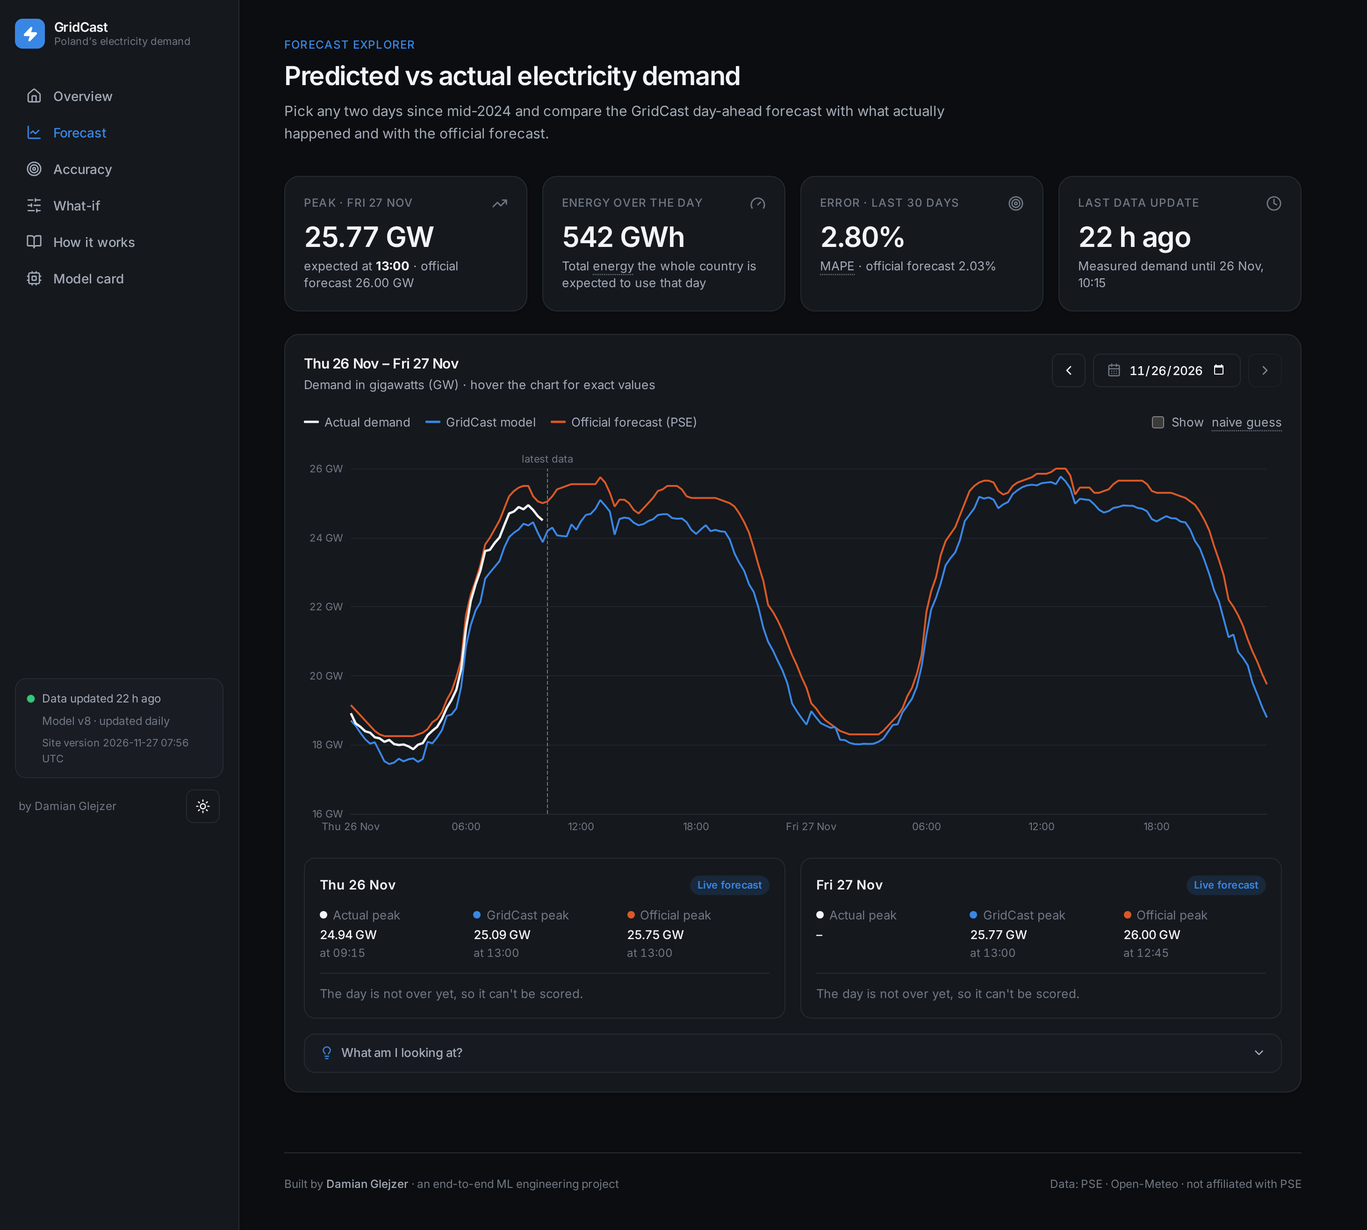
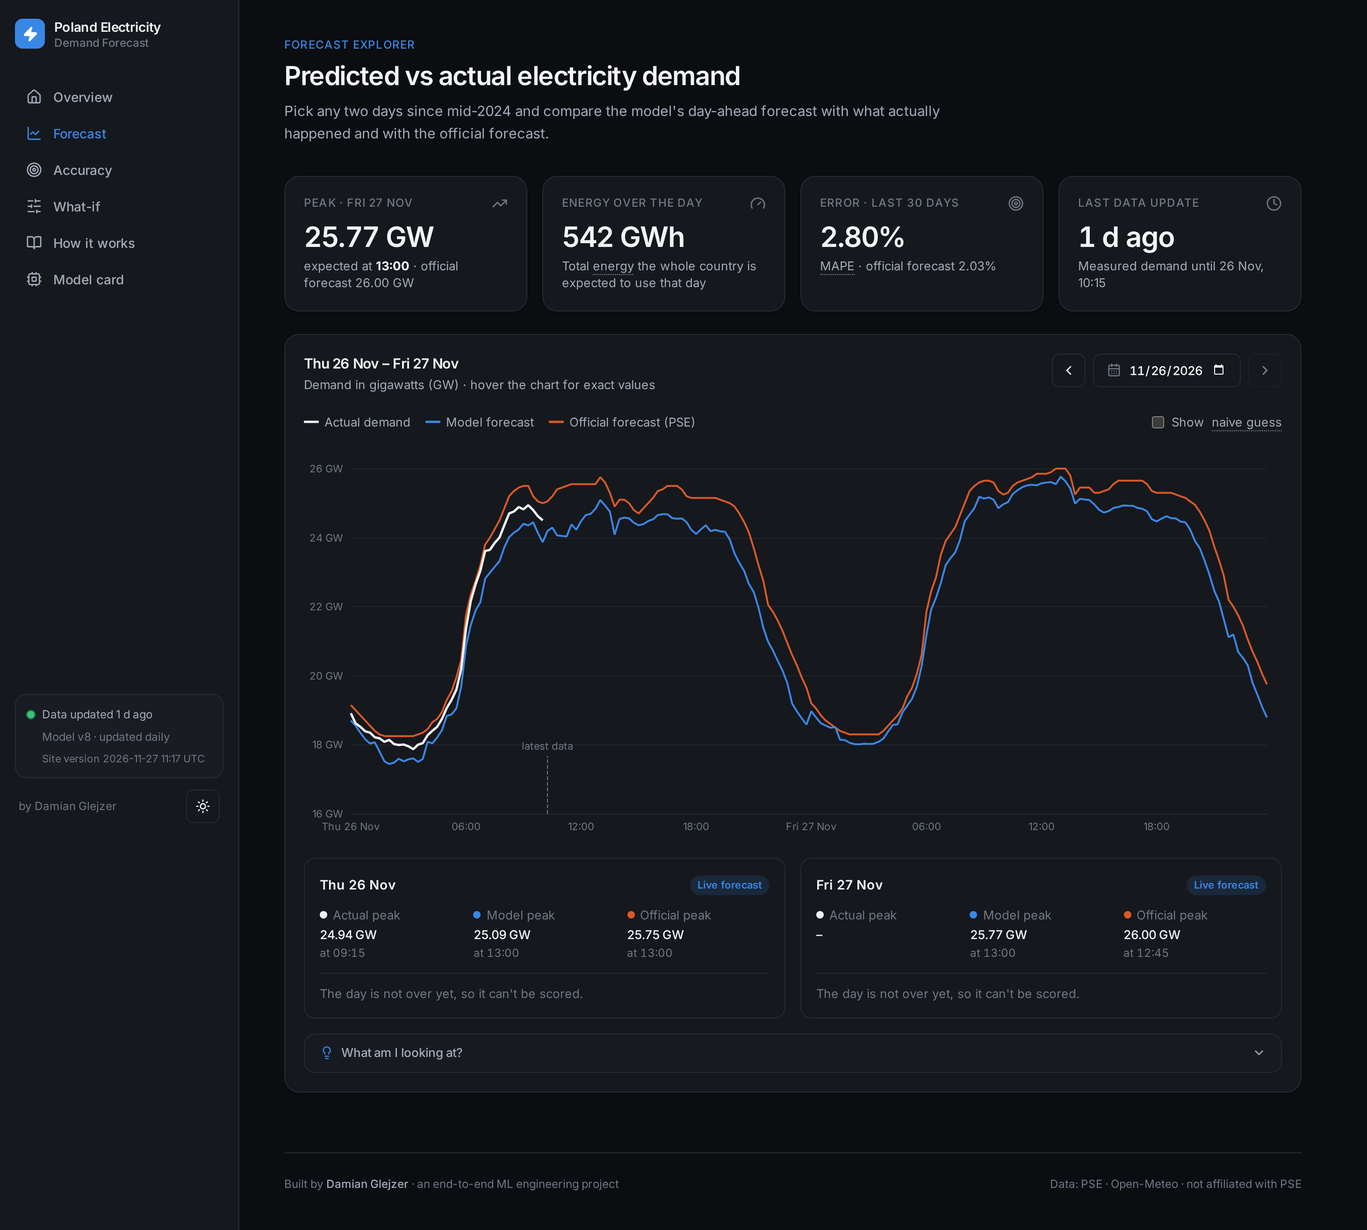
chore: rename the project to Poland Electricity Demand Forecast
A descriptive name tells recruiters what the project does at a glance.
- website title, sidebar logo and README use the new name; chart legends
  say "Model forecast" next to "Official forecast (PSE)"
- repository, Render service and Vercel address: poland-electricity-forecast
  (API service: poland-electricity-api)
- database users renamed to forecast_api / forecast_writer

diff --git a/frontend/src/pages/Accuracy.tsx b/frontend/src/pages/Accuracy.tsx
@@ -23,7 +23,7 @@ import { dayLabel, num, pct } from "../lib/format";
 import { type ChartColors, useChartColors } from "../lib/theme";
 
 const SOURCES: { key: SourceKey; label: string; dashed?: boolean }[] = [
-  { key: "model", label: "GridCast model" },
+  { key: "model", label: "Model forecast" },
   { key: "pse", label: "Official forecast (PSE)" },
   { key: "baseline", label: "Naive guess (last week)", dashed: true },
 ];
@@ -339,7 +339,7 @@ export default function Accuracy() {
           subtitle={`${dayLabel(b.start, false)} – ${dayLabel(b.end, false)} · ${b.n_days} days · every 15 minutes`}
           className="border-accent/40 bg-gradient-to-br from-accent/[0.08] to-transparent lg:col-span-1"
         >
-          <div className="text-[13px] text-ink-2">On average the GridCast forecast misses by</div>
+          <div className="text-[13px] text-ink-2">On average the model's forecast misses by</div>
           <div className="tnum mt-1 text-[44px] font-semibold leading-none tracking-tight">
             {pct(b.summary.model.mape)}
           </div>
@@ -396,8 +396,8 @@ export default function Accuracy() {
             <p>
               Each point is one day. Spikes usually come from unusual days, such as public holidays, sudden
               weather changes or days with a lot of solar power, which are hard for every forecast. On days
-              where the blue line is below the orange one, the GridCast model was closer to reality than the
-              official forecast.
+              where the blue line is below the orange one, the model was closer to reality than the official
+              forecast.
             </p>
           </Explainer>
         </Card>

diff --git a/frontend/src/pages/Forecast.tsx b/frontend/src/pages/Forecast.tsx
@@ -109,7 +109,7 @@ function DayStats({ s, day }: { s: Series; day: DayInfo }) {
   };
   const rows: [string, "actual" | "model" | "pse", string][] = [
     ["Actual", "actual", "bg-ink"],
-    ["GridCast", "model", "bg-series-model"],
+    ["Model", "model", "bg-series-model"],
     ["Official", "pse", "bg-series-pse"],
   ];
   const kind = day.model_kind ? KIND_LABEL[day.model_kind] : null;
@@ -146,7 +146,7 @@ function DayStats({ s, day }: { s: Series; day: DayInfo }) {
       </dl>
       {complete ? (
         <div className="mt-3 border-t border-line pt-3 text-[13px] text-ink-2">
-          Average miss: GridCast <b className="tnum text-ink">{pct(mape("model"))}</b> · official{" "}
+          Average miss: model <b className="tnum text-ink">{pct(mape("model"))}</b> · official{" "}
           <b className="tnum text-ink">{pct(mape("pse"))}</b>
           {winner === "model" && <span className="ml-2 text-good">✓ closer</span>}
         </div>
@@ -183,7 +183,7 @@ export default function Forecast() {
       <PageHeader
         eyebrow="Forecast explorer"
         title="Predicted vs actual electricity demand"
-        description="Pick any two days since mid-2024 and compare the GridCast day-ahead forecast with what actually happened and with the official forecast."
+        description="Pick any two days since mid-2024 and compare the model's day-ahead forecast with what actually happened and with the official forecast."
       />
       {kpis.data ? (
         <KpiRow k={kpis.data} />

diff --git a/frontend/src/pages/Overview.tsx b/frontend/src/pages/Overview.tsx
@@ -160,7 +160,7 @@ export default function Overview() {
             </li>
           </ul>
           <p className="mt-4 text-[15px] leading-relaxed text-ink-2">
-            <b className="text-ink">{SITE.name}</b> is an end-to-end machine-learning system that makes the
+            This project is an <b className="text-ink">end-to-end machine-learning system</b> that makes the
             same forecast automatically every day
             {beatsPse ? (
               <>
@@ -226,7 +226,7 @@ export default function Overview() {
               <p>
                 The <b className="text-ink">black line</b> is how much electricity the whole of Poland
                 actually used, in gigawatts. It stops at the latest measurement. The{" "}
-                <b className="text-ink">blue line</b> is the GridCast model's prediction and the{" "}
+                <b className="text-ink">blue line</b> is the model's prediction and the{" "}
                 <b className="text-ink">orange line</b> is the official forecast by PSE. Both were made the
                 day before.
               </p>

diff --git a/frontend/index.html b/frontend/index.html
@@ -4,12 +4,12 @@
     <meta charset="UTF-8" />
     <meta name="viewport" content="width=device-width, initial-scale=1.0" />
     <link rel="icon" type="image/svg+xml" href="/favicon.svg" />
-    <title>GridCast · Forecasting Poland's electricity demand</title>
+    <title>Poland Electricity Demand Forecast</title>
     <meta
       name="description"
       content="An end-to-end machine learning system that forecasts Poland's electricity demand for the next day, every 15 minutes, and compares itself with the grid operator's official forecast."
     />
-    <meta property="og:title" content="GridCast · Forecasting Poland's electricity demand" />
+    <meta property="og:title" content="Poland Electricity Demand Forecast" />
     <meta
       property="og:description"
       content="Day-ahead electricity demand forecasts with LightGBM, MLflow, FastAPI and React, benchmarked against the official forecast."

diff --git a/frontend/src/components/DemandChart.tsx b/frontend/src/components/DemandChart.tsx
@@ -20,7 +20,7 @@ export function useNarrow(breakpoint = 640) {
 
 export const SERIES_LABELS = {
   actual: "Actual demand",
-  model: "GridCast model",
+  model: "Model forecast",
   pse: "Official forecast (PSE)",
   baseline: "Naive guess (last week)",
 } as const;
@@ -158,7 +158,7 @@ export function DemandChart({
   }, [series, actualsUntil]);
   return (
     <Chart
-      ariaLabel="Line chart of actual electricity demand, the GridCast forecast and the official forecast"
+      ariaLabel="Line chart of actual electricity demand, the model's forecast and the official forecast"
       option={demandOption(series, c, nowIdx, narrow, showBaseline)}
       height={height}
     />

diff --git a/frontend/src/components/Layout.tsx b/frontend/src/components/Layout.tsx
@@ -42,8 +42,8 @@ function Brand() {
         <Zap size={17} fill="currentColor" />
       </div>
       <div className="leading-tight">
-        <div className="font-semibold tracking-tight">{SITE.name}</div>
-        <div className="text-[11px] text-muted">Poland's electricity demand</div>
+        <div className="font-semibold tracking-tight">{SITE.shortName}</div>
+        <div className="text-[12px] font-medium text-muted">{SITE.tagline}</div>
       </div>
     </Link>
   );

diff --git a/frontend/src/config.ts b/frontend/src/config.ts
@@ -1,6 +1,9 @@
 /** Site-wide settings. Override with VITE_* variables at build time (e.g. in Vercel). */
 export const SITE = {
-  name: "GridCast",
+  name: "Poland Electricity Demand Forecast",
+  // Two short lines for the sidebar logo.
+  shortName: "Poland Electricity",
+  tagline: "Demand Forecast",
   author: import.meta.env.VITE_AUTHOR_NAME || "Damian Glejzer",
   githubUrl: import.meta.env.VITE_GITHUB_URL || "",
   linkedinUrl: import.meta.env.VITE_LINKEDIN_URL || "",

diff --git a/docs/DEPLOY.md b/docs/DEPLOY.md
@@ -1,4 +1,4 @@
-# Deploying GridCast (free tiers)
+# Deploying the Poland Electricity Demand Forecast (free tiers)
 
 This guide puts the project online with four free services:
 
@@ -26,17 +26,17 @@ Allow about 30–45 minutes. Do the steps in order: each one needs a value from 
 
 ## 1. Push the code to GitHub
 
-1. On GitHub, create a new **empty, public** repository (no README or license; for example `gridcast`).
+1. On GitHub, create a new **empty, public** repository (no README or license; for example `poland-electricity-forecast`).
 2. In the project folder:
    ```bash
-   git remote add origin https://github.com/YOUR-USERNAME/gridcast.git
+   git remote add origin https://github.com/YOUR-USERNAME/poland-electricity-forecast.git
    git push -u origin main
    ```
 3. In `README.md`, replace `YOUR-USERNAME` / `YOUR-APP` later, once you know the URLs.
 
 ## 2. Create the database (Neon)
 
-1. Neon console → **New project**. Name it `gridcast`, choose region **AWS Europe Central (Frankfurt)** (close to Render's Frankfurt region) and Postgres 16 or newer.
+1. Neon console → **New project**. Name it `poland-electricity-forecast`, choose region **AWS Europe Central (Frankfurt)** (close to Render's Frankfurt region) and Postgres 16 or newer.
 2. On the project dashboard click **Connect** and copy the connection string. It looks like:
    ```
    postgresql://neondb_owner:xxxxx@ep-something-123456.eu-central-1.aws.neon.tech/neondb?sslmode=require
@@ -66,15 +66,15 @@ Render and GitHub Actions should not use the owner password. If one of their cre
 | User | Used by | Allowed to |
 |---|---|---|
 | `neondb_owner` | your laptop (`make publish`) | everything |
-| `gridcast_writer` | GitHub Actions daily job | add demand, weather and forecasts. **Can't** change the model, delete rows or drop tables |
-| `gridcast_api` | Render API | **read only**; every query stops after 10 s |
+| `forecast_writer` | GitHub Actions daily job | add demand, weather and forecasts. **Can't** change the model, delete rows or drop tables |
+| `forecast_api` | Render API | **read only**; every query stops after 10 s |
 
 1. Open [`infra/neon/roles.sql`](../infra/neon/roles.sql) and replace the two `CHANGE-ME-…` passwords with long random ones. To generate one, run `openssl rand -base64 24 | tr -d '/+='`. Don't commit the file with real passwords.
 2. Neon console → your project → **SQL Editor**. Paste the whole file and click **Run**. Run it **after** step 3, because it grants access to the tables `make publish` created.
 3. Build two connection strings from the owner string by swapping the user name and password:
    ```
-   postgresql://gridcast_api:API-PASSWORD@ep-...neon.tech/neondb?sslmode=require      ← for Render
-   postgresql://gridcast_writer:WRITER-PASSWORD@ep-...neon.tech/neondb?sslmode=require ← for GitHub
+   postgresql://forecast_api:API-PASSWORD@ep-...neon.tech/neondb?sslmode=require      ← for Render
+   postgresql://forecast_writer:WRITER-PASSWORD@ep-...neon.tech/neondb?sslmode=require ← for GitHub
    ```
    Keep `?sslmode=require`: it encrypts the connection.
 
@@ -82,12 +82,12 @@ Create the users with the SQL above, not with Neon's "Roles" page: users created
 
 ## 4. Deploy the API (Render)
 
-1. Render dashboard → **New → Blueprint** → connect your GitHub repository. Render finds `render.yaml` and proposes a web service called `gridcast-api`.
+1. Render dashboard → **New → Blueprint** → connect your GitHub repository. Render finds `render.yaml` and proposes a web service called `poland-electricity-api`.
 2. Fill in the two secret values it asks for:
-   - `DATABASE_URL`: the **`gridcast_api`** (read-only) connection string from step 3b.
+   - `DATABASE_URL`: the **`forecast_api`** (read-only) connection string from step 3b.
    - `CORS_ORIGINS`: for now `http://localhost:5173`. You'll replace it with the Vercel URL in step 6.
 3. Click **Apply**. The first build takes about 5–8 minutes.
-4. Check it: open `https://gridcast-api-XXXX.onrender.com/api/health`. It should show `{"status":"ok"}`. Also try `/api/docs` (interactive API docs) and `/api/kpis`.
+4. Check it: open `https://poland-electricity-api-XXXX.onrender.com/api/health`. It should show `{"status":"ok"}`. Also try `/api/docs` (interactive API docs) and `/api/kpis`.
 
 > Prefer clicking through the UI instead of a Blueprint? Create a **Web Service** from the repo, set *Language* = Docker, *Dockerfile path* = `./backend/Dockerfile`, *Docker build context* = `./backend`, *Health check path* = `/api/health`, instance type **Free**, and add the same environment variables plus `MLFLOW_PUBLIC_URL` with an empty value.
 
@@ -99,12 +99,12 @@ Create the users with the SQL above, not with Neon's "Roles" page: users created
 
    | Name | Value |
    |---|---|
-   | `VITE_API_URL` | your Render URL, e.g. `https://gridcast-api-xxxx.onrender.com` (no trailing slash, no `/api`) |
-   | `VITE_GITHUB_URL` | `https://github.com/YOUR-USERNAME/gridcast` (shows "Source code" buttons) |
+   | `VITE_API_URL` | your Render URL, e.g. `https://poland-electricity-api-xxxx.onrender.com` (no trailing slash, no `/api`) |
+   | `VITE_GITHUB_URL` | `https://github.com/YOUR-USERNAME/poland-electricity-forecast` (shows "Source code" buttons) |
    | `VITE_LINKEDIN_URL` | your LinkedIn profile URL (optional) |
    | `VITE_AUTHOR_NAME` | your name as it should appear (optional; defaults to Damian Glejzer) |
 
-4. Click **Deploy**. Note the URL, e.g. `https://gridcast.vercel.app`. You can rename the project to get a nicer subdomain.
+4. Click **Deploy**. Note the URL, e.g. `https://poland-electricity-forecast.vercel.app`. You can rename the project to get a nicer subdomain.
 
 `VITE_*` variables are built into the site, so after changing one, redeploy (Deployments → ⋯ → Redeploy).
 
@@ -112,9 +112,9 @@ Create the users with the SQL above, not with Neon's "Roles" page: users created
 
 Browsers only let the website call the API if the API allows its address.
 
-1. Render → `gridcast-api` → **Environment** → set `CORS_ORIGINS` to your Vercel URL, e.g.
+1. Render → `poland-electricity-api` → **Environment** → set `CORS_ORIGINS` to your Vercel URL, e.g.
    ```
-   https://gridcast.vercel.app
+   https://poland-electricity-forecast.vercel.app
    ```
    Add more addresses comma-separated if needed (for example a custom domain).
 2. Save; Render redeploys automatically (~1 min).
@@ -124,7 +124,7 @@ Browsers only let the website call the API if the API allows its address.
 
 1. GitHub repository → **Settings → Secrets and variables → Actions → New repository secret**:
    - Name: `DATABASE_URL`
-   - Value: the **`gridcast_writer`** connection string from step 3b.
+   - Value: the **`forecast_writer`** connection string from step 3b.
 2. **Actions** tab → enable workflows if GitHub asks.
 3. Open **Daily forecast** → **Run workflow** to test it now. A green run means new data was downloaded and tomorrow's forecast written. It then runs automatically at 08:45 and 13:30 UTC every day.
 4. **CI** runs on every push (tests, frontend build, Docker image). Its badge in the README turns green.
@@ -136,7 +136,7 @@ GitHub pauses scheduled workflows in repositories with **no activity for 60 days
 So recruiters don't wait for Render to wake up:
 
 1. Create a free account at [UptimeRobot](https://uptimerobot.com).
-2. **Add New Monitor** → type *HTTP(s)*, URL `https://gridcast-api-xxxx.onrender.com/api/health`, interval **10 minutes**.
+2. **Add New Monitor** → type *HTTP(s)*, URL `https://poland-electricity-api-xxxx.onrender.com/api/health`, interval **10 minutes**.
 
 This also gives you an uptime history and an email if the API goes down. Render's free plan includes 750 instance-hours per month, enough for one always-on service.
 

diff --git a/docs/SECURITY.md b/docs/SECURITY.md
@@ -1,6 +1,6 @@
 # Security
 
-GridCast runs publicly on free tiers (Render, Neon, Vercel, GitHub Actions). This page lists what could go wrong and what stops it. Each protection is covered by a test or was verified in a production rehearsal.
+The Poland Electricity Demand Forecast runs publicly on free tiers (Render, Neon, Vercel, GitHub Actions). This page lists what could go wrong and what stops it. Each protection is covered by a test or was verified in a production rehearsal.
 
 ## Threats and protections
 
@@ -10,12 +10,12 @@ GridCast runs publicly on free tiers (Render, Neon, Vercel, GitHub Actions). Thi
 | Someone floods the API and the 512 MB server falls over | Limit of **120 requests per minute per visitor** and 3,000 per minute in total; excess requests get HTTP 429. Uvicorn caps concurrent connections at 40 and returns quick 503s beyond that | `security.py`, `backend/Dockerfile` |
 | Someone floods the one endpoint that runs the model (What-if) | **30 scenarios per minute per visitor**, at most **2 computations at a time**, and results cached by scenario | `security.py`, `api/main.py` |
 | Traffic burns Neon's monthly free compute or Render's bandwidth | Responses are **cached in memory for 10 minutes** and browsers may reuse them for 5. Repeated requests never reach the database. `/api/health` (used by uptime monitors) doesn't touch the database, so Neon can sleep | `api/main.py` |
-| A leaked Render credential is used to damage the database | Render connects as **`gridcast_api`**, which is **read-only** at the database level, limited to 10 connections, with a 10 s query timeout | `infra/neon/roles.sql` |
-| A leaked GitHub secret is used to damage the database | The daily job connects as **`gridcast_writer`**: it can add data and forecasts, but can't change the model, delete rows, truncate or drop tables | `infra/neon/roles.sql` |
+| A leaked Render credential is used to damage the database | Render connects as **`forecast_api`**, which is **read-only** at the database level, limited to 10 connections, with a 10 s query timeout | `infra/neon/roles.sql` |
+| A leaked GitHub secret is used to damage the database | The daily job connects as **`forecast_writer`**: it can add data and forecasts, but can't change the model, delete rows, truncate or drop tables | `infra/neon/roles.sql` |
 | Oversized or malformed requests | Request bodies are limited to 8 KB (API) and 16 KB (nginx). All inputs are validated by Pydantic with bounded ranges, and dates outside the data are rejected | `security.py`, `api/main.py` |
 | SQL injection | Every query is built with SQLAlchemy Core using bound parameters; no SQL is assembled from strings | `db.py`, `services.py` |
 | Rate limits bypassed by faking an IP address | Proxy headers are trusted only when `TRUST_PROXY_HEADERS=true` (on Render, behind its proxy). The limiter keeps at most 10,000 addresses in memory, and the global limit applies to everyone | `security.py` |
-| Another site embeds GridCast in a frame (clickjacking), or injected scripts run | **Content-Security-Policy** (scripts only from the site itself plus one hashed inline script, `frame-ancestors 'none'`), `X-Frame-Options: DENY`, `nosniff`, a strict referrer policy, and a Permissions-Policy that disables camera, microphone and location. HSTS is set on Vercel. The build fails if the inline-script hash drifts | `frontend/vercel.json`, `frontend/security-headers.conf`, `frontend/scripts/check-csp.mjs` |
+| Another site embeds the site in a frame (clickjacking), or injected scripts run | **Content-Security-Policy** (scripts only from the site itself plus one hashed inline script, `frame-ancestors 'none'`), `X-Frame-Options: DENY`, `nosniff`, a strict referrer policy, and a Permissions-Policy that disables camera, microphone and location. HSTS is set on Vercel. The build fails if the inline-script hash drifts | `frontend/vercel.json`, `frontend/security-headers.conf`, `frontend/scripts/check-csp.mjs` |
 | Other websites call the API from visitors' browsers | CORS allows only the configured site (`CORS_ORIGINS`), and only `GET` / `POST` | `api/main.py` |
 | Secrets end up in the code or the website | `.env` is git-ignored. Database URLs live only in Render's environment, GitHub Secrets and the local `.env`. `VITE_*` variables are public by design and hold only URLs, never secrets | `.gitignore`, `docs/DEPLOY.md` |
 | A compromised dependency or a CI workflow with too many rights | Workflows run with read-only repository permissions, and secrets are used only by the scheduled job (never on pull requests). Dependencies are locked. Dependabot proposes updates weekly and CI tests them | `.github/` |
@@ -29,7 +29,7 @@ The production image was run locally under Render's 512 MB memory limit, against
 - All pages worked with the read-only user. The API user's `INSERT`, `UPDATE`, `DELETE`, `DROP` and `CREATE` attempts were all refused by Postgres. The writer was refused for `DELETE`, `TRUNCATE`, `DROP` and any change to the model tables.
 - From 150 rapid requests by one visitor, 120 were answered and 30 got HTTP 429, while another visitor was unaffected. From 40 what-if scenarios, 30 ran and 10 were limited. A 20 KB request body got 413.
 - Memory use: about 137 MB of 512 MB.
-- The daily job ran successfully as `gridcast_writer`.
+- The daily job ran successfully as `forecast_writer`.
 
 ## Not covered (accepted for a free portfolio demo)
 
@@ -43,5 +43,5 @@ The production image was run locally under Render's 512 MB memory limit, against
 - Protect the `main` branch on GitHub: require pull requests and green CI.
 - Keep GitHub's secret scanning and Dependabot alerts enabled (on by default for public repositories).
 - If a credential leaks, reset it right away:
-  - Neon: `ALTER ROLE gridcast_api PASSWORD '…'`;
+  - Neon: `ALTER ROLE forecast_api PASSWORD '…'`;
   - then update Render's environment or the GitHub secret.

diff --git a/README.md b/README.md
@@ -1,11 +1,11 @@
-# GridCast: forecasting Poland's electricity demand
+# Poland Electricity Demand Forecast
 
-[![CI](https://github.com/YOUR-USERNAME/gridcast/actions/workflows/ci.yml/badge.svg)](https://github.com/YOUR-USERNAME/gridcast/actions/workflows/ci.yml)
-[![Daily forecast](https://github.com/YOUR-USERNAME/gridcast/actions/workflows/daily-forecast.yml/badge.svg)](https://github.com/YOUR-USERNAME/gridcast/actions/workflows/daily-forecast.yml)
+[![CI](https://github.com/YOUR-USERNAME/poland-electricity-forecast/actions/workflows/ci.yml/badge.svg)](https://github.com/YOUR-USERNAME/poland-electricity-forecast/actions/workflows/ci.yml)
+[![Daily forecast](https://github.com/YOUR-USERNAME/poland-electricity-forecast/actions/workflows/daily-forecast.yml/badge.svg)](https://github.com/YOUR-USERNAME/poland-electricity-forecast/actions/workflows/daily-forecast.yml)
 
 **Live demo: https://YOUR-APP.vercel.app** (the first load can take ~30 s while the free API server wakes up)
 
-GridCast is an end-to-end machine-learning system. Every day it forecasts **Poland's national electricity demand for the next day, every 15 minutes** (96 values per day), and scores itself against the **official forecast published by the grid operator PSE**.
+An end-to-end machine-learning system. Every day it forecasts **Poland's national electricity demand for the next day, every 15 minutes** (96 values per day), and scores itself against the **official forecast published by the grid operator PSE**.
 
 It covers the whole lifecycle:
 
@@ -23,7 +23,7 @@ Hold-out test: the **last 60 complete days before training** (26 Sep – 24 Nov 
 
 | Forecast | MAPE | MAE | RMSE |
 |---|---:|---:|---:|
-| **GridCast (LightGBM)** | **2.51 %** | **483 MW** | **626 MW** |
+| **This model (LightGBM)** | **2.51 %** | **483 MW** | **626 MW** |
 | PSE official day-ahead forecast | 1.96 % | 366 MW | 483 MW |
 | Naive: same time 7 days ago | 3.97 % | 766 MW | 1,087 MW |
 
@@ -88,7 +88,7 @@ flowchart LR
 Requirements: **Docker** (with Compose) and **make**. No API keys.
 
 ```bash
-git clone https://github.com/YOUR-USERNAME/gridcast.git && cd gridcast
+git clone https://github.com/YOUR-USERNAME/poland-electricity-forecast.git && cd poland-electricity-forecast
 make up                      # Postgres, MLflow, API and UI
 make refresh && make train   # download ~2.5 years of data (~1 min), train and register (~1.5 min)
 ```
